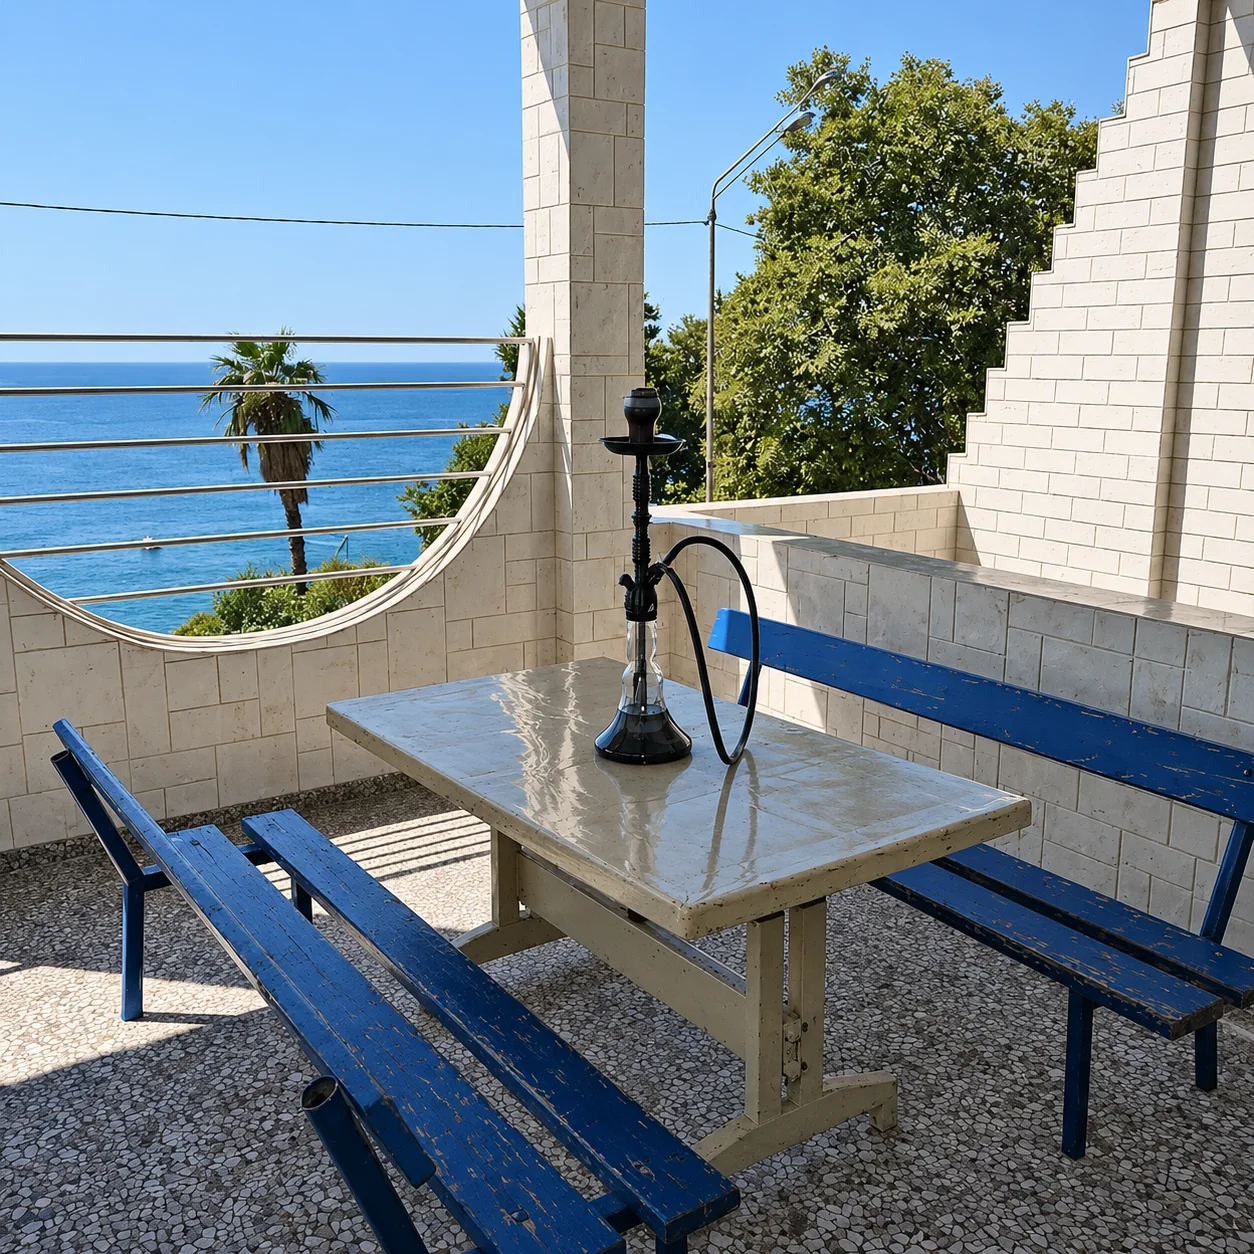
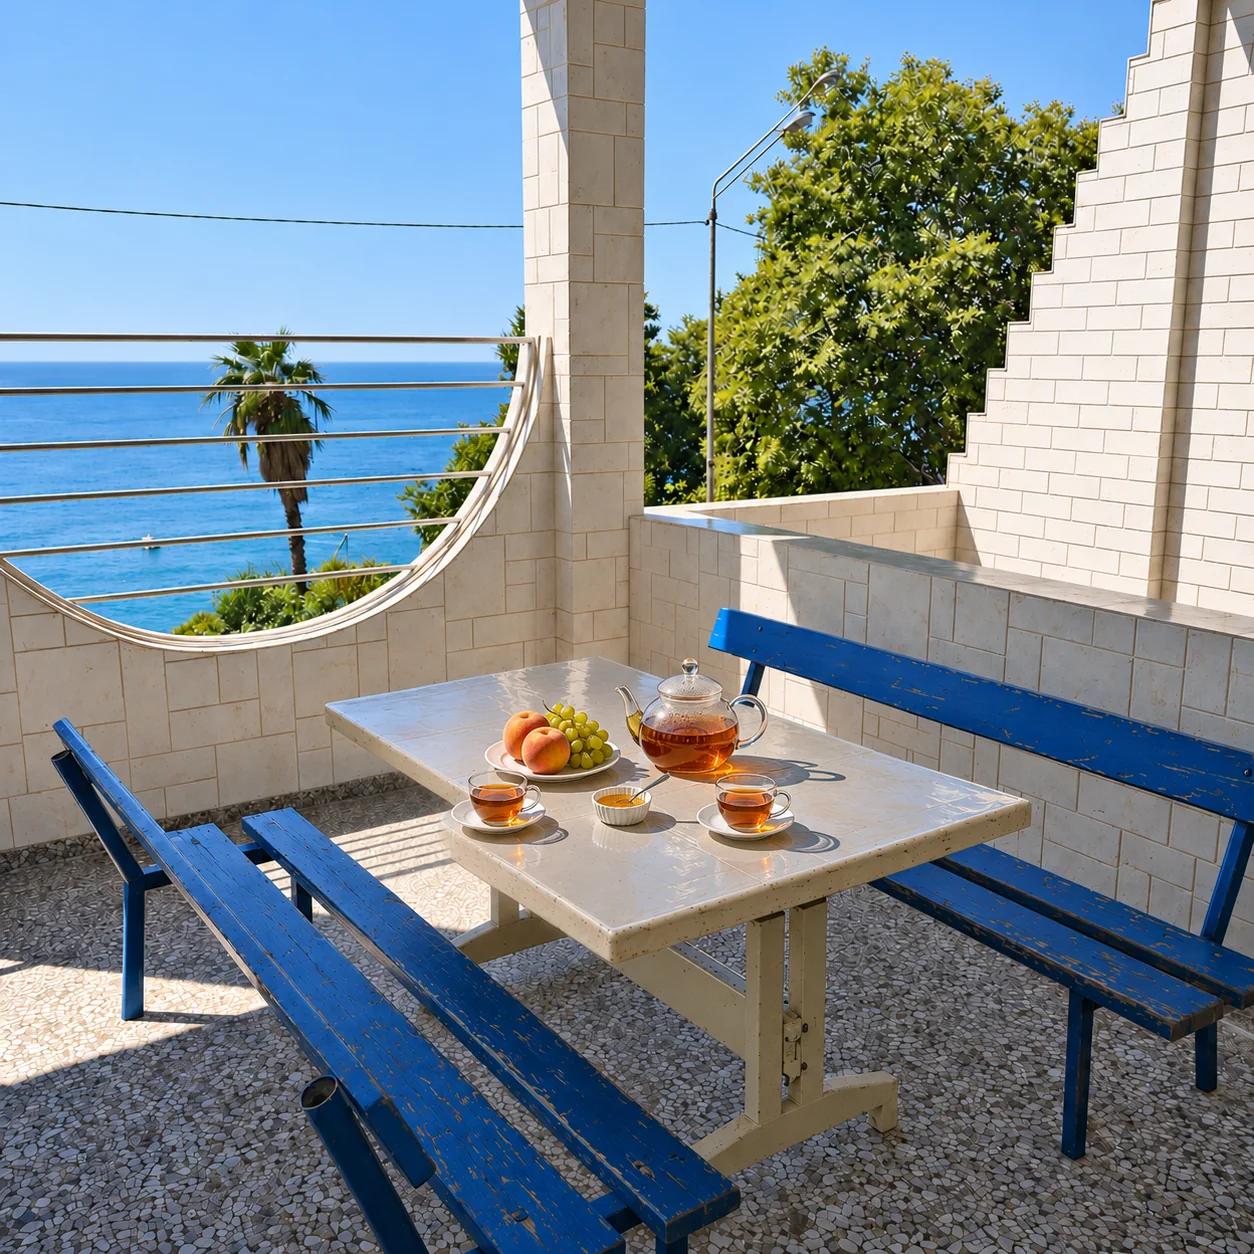
Терраса: чай со стеклянным чайником вместо кальяна
С фото террасы убран кальян, на столе чай в стеклянном чайнике, персики,
виноград и мёд. Подпись: «Самое место для неспешного чая» (и по-английски).

diff --git a/index.html b/index.html
@@ -404,7 +404,7 @@
         <p class="eyebrow">Как устроен дом</p>
         <h2 class="h2">Отдых отдыхом. А&nbsp;чай — по&nbsp;расписанию?</h2>
         <p class="lead">Расписание выбираете вы. Здесь есть место для чашки чая, домашнего ужина и&nbsp;обычных дел между походами на&nbsp;пляж.</p>
-        <div class="life__terrace"><h3 class="h3">Терраса с круглым окном</h3><p>Синие скамейки, пальма и&nbsp;море в&nbsp;круглой раме. Остаётся поставить чашку на&nbsp;стол.</p></div>
+        <div class="life__terrace"><h3 class="h3">Терраса с круглым окном</h3><p>Синие скамейки, пальма и&nbsp;море в&nbsp;круглой раме. Самое место для неспешного чая.</p></div>
         <p class="hand life__hand" aria-hidden="true">Чай будете?</p>
       </div>
     </div>

diff --git a/en/index.html b/en/index.html
@@ -388,7 +388,7 @@
         <p class="eyebrow">Around the house</p>
         <h2 class="h2">Is it time for tea yet?</h2>
         <p class="lead">You set the schedule. There’s room for a cup of tea, a home-cooked dinner and everyday essentials between beach trips.</p>
-        <div class="life__terrace"><h3 class="h3">A terrace with a round window</h3><p>Blue benches, a palm tree and the sea in a circular frame. Just add a cup of tea.</p></div>
+        <div class="life__terrace"><h3 class="h3">A terrace with a round window</h3><p>Blue benches, a palm tree and the sea in a circular frame. Just the place for an unhurried cup of tea.</p></div>
         <p class="hand life__hand" aria-hidden="true">Tea, anyone?</p>
       </div>
     </div>
